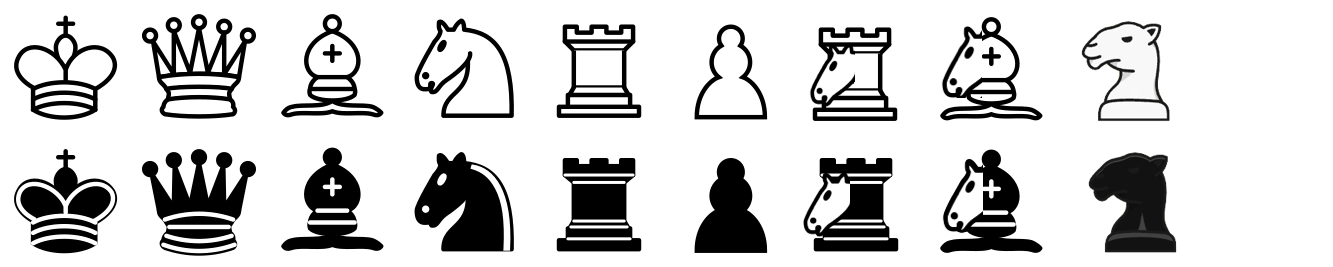
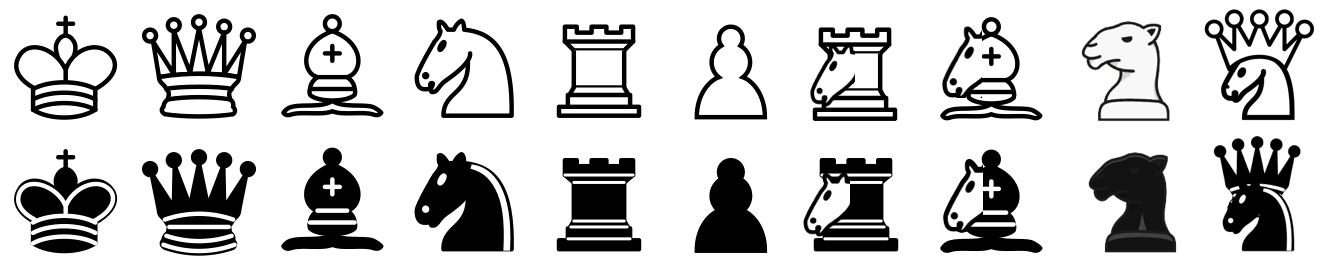
add amazon

Changed region(s): [[0.892, 0.5094, 0.9842, 0.9588], [0.892, 0.03, 0.9842, 0.4494]]

diff --git a/bin/bundle.js b/bin/bundle.js
@@ -792,6 +792,10 @@ const config = {
       x: 8,
       y: 0
     },
+    'white_amazon': {
+      x: 9,
+      y: 0
+    },
     'black_king': {
       x: 0,
       y: 1
@@ -827,6 +831,10 @@ const config = {
     'black_camel': {
       x: 8,
       y: 1
+    },
+    'black_amazon': {
+      x: 9,
+      y: 1
     }
   },
   pieceToValue: (pieceType, isMinimax) => {
@@ -839,7 +847,8 @@ const config = {
       rook: 5,
       knook: 8,
       knishop: 8,
-      queen: 9
+      queen: 9,
+      amazon: 13
     };
     if (isMinimax && pieceType == 'king') return 1000;
     return vals[pieceType];
@@ -1358,6 +1367,14 @@ const deploymentBoard = () => {
       },
       id: pieceID++
     }, {
+      color: 'white',
+      type: 'amazon',
+      position: {
+        x: 9,
+        y: 11
+      },
+      id: pieceID++
+    }, {
       color: 'black',
       type: 'rook',
       position: {
@@ -1426,6 +1443,14 @@ const deploymentBoard = () => {
       type: 'pawn',
       position: {
         x: 8,
+        y: 0
+      },
+      id: pieceID++
+    }, {
+      color: 'black',
+      type: 'amazon',
+      position: {
+        x: 9,
         y: 0
       },
       id: pieceID++
@@ -2035,6 +2060,9 @@ function getLegalMoves(game, piece) {
     case 'knishop':
       legalMoves = getBishopMoves(game, x, y).concat(getKnightMoves(game, x, y));
       break;
+    case 'amazon':
+      legalMoves = getRookMoves(game, x, y).concat(getBishopMoves(game, x, y)).concat(getKnightMoves(game, x, y));
+      break;
     case 'king':
       legalMoves = [{
         x: x - 1,
@@ -2398,8 +2426,14 @@ const choosePiece = (valueRemaining, placedKing) => {
     case 8:
       possiblePieces = possiblePieces.concat(['knight', 'bishop', 'rook', 'king', 'knishop', 'knook', 'camel']);
       break;
-    default:
+    case 9:
+    case 10:
+    case 11:
+    case 12:
       possiblePieces = possiblePieces.concat(['knight', 'bishop', 'rook', 'king', 'knishop', 'knook', 'queen', 'camel']);
+      break;
+    default:
+      possiblePieces = possiblePieces.concat(['knight', 'bishop', 'rook', 'king', 'knishop', 'knook', 'queen', 'camel', 'amazon']);
       break;
   }
   if (valueRemaining < 14 && !placedKing) {

diff --git a/js/reducers/rootReducer.js b/js/reducers/rootReducer.js
@@ -143,6 +143,7 @@ const deploymentBoard = () => {
       {color: 'white', type: 'knishop', position: {x: 6, y: 11}, id: pieceID++},
       {color: 'white', type: 'camel', position: {x: 7, y: 11}, id: pieceID++},
       {color: 'white', type: 'pawn', position: {x: 8, y: 11}, id: pieceID++},
+      {color: 'white', type: 'amazon', position: {x: 9, y: 11}, id: pieceID++},
 
       {color: 'black', type: 'rook', position: {x: 0, y: 0}, id: pieceID++},
       {color: 'black', type: 'knight', position: {x: 1, y: 0}, id: pieceID++},
@@ -153,6 +154,7 @@ const deploymentBoard = () => {
       {color: 'black', type: 'knishop', position: {x: 6, y: 0}, id: pieceID++},
       {color: 'black', type: 'camel', position: {x: 7, y: 0}, id: pieceID++},
       {color: 'black', type: 'pawn', position: {x: 8, y: 0}, id: pieceID++},
+      {color: 'black', type: 'amazon', position: {x: 9, y: 0}, id: pieceID++},
 
       // {color: 'white', type: 'pawn', position: {x: 2, y: 8}, id: pieceID++},
       // {color: 'white', type: 'pawn', position: {x: 3, y: 8}, id: pieceID++},

diff --git a/js/config.js b/js/config.js
@@ -23,6 +23,7 @@ const config = {
     'white_knook': {x: 6, y: 0},
     'white_knishop': {x: 7, y: 0},
     'white_camel': {x: 8, y: 0},
+    'white_amazon': {x: 9, y: 0},
 
     'black_king': {x: 0, y: 1},
     'black_queen': {x: 1, y: 1},
@@ -33,6 +34,7 @@ const config = {
     'black_knook': {x: 6, y: 1},
     'black_knishop': {x: 7, y: 1},
     'black_camel': {x: 8, y: 1},
+    'black_amazon': {x: 9, y: 1},
   },
 
   pieceToValue: (pieceType, isMinimax) => {
@@ -46,6 +48,7 @@ const config = {
       knook: 8,
       knishop: 8,
       queen: 9,
+      amazon: 13,
     };
     if (isMinimax && pieceType == 'king') return 1000;
     return vals[pieceType];

diff --git a/js/thunks/deployPieces.js b/js/thunks/deployPieces.js
@@ -92,10 +92,20 @@ const choosePiece = (valueRemaining, placedKing) => {
         'knishop', 'knook', 'camel',
       ]);
       break;
+    case 9:
+    case 10:
+    case 11:
+    case 12:
+      possiblePieces = possiblePieces.concat([
+        'knight', 'bishop', 'rook', 'king',
+        'knishop', 'knook', 'queen', 'camel',
+      ]);
+      break;
     default:
       possiblePieces = possiblePieces.concat([
         'knight', 'bishop', 'rook', 'king',
         'knishop', 'knook', 'queen', 'camel',
+        'amazon',
       ]);
       break;
   }

diff --git a/js/selectors/moves.js b/js/selectors/moves.js
@@ -104,6 +104,11 @@ function getLegalMoves(game, piece) {
       legalMoves = getBishopMoves(game, x, y)
         .concat(getKnightMoves(game, x, y));
       break;
+    case 'amazon':
+      legalMoves = getRookMoves(game, x, y)
+        .concat(getBishopMoves(game, x, y))
+        .concat(getKnightMoves(game, x, y));
+      break;
     case 'king':
       legalMoves = [
         {x: x - 1, y: y - 1}, {x: x, y: y - 1}, {x: x + 1, y: y - 1}, {x: x - 1, y: y},
